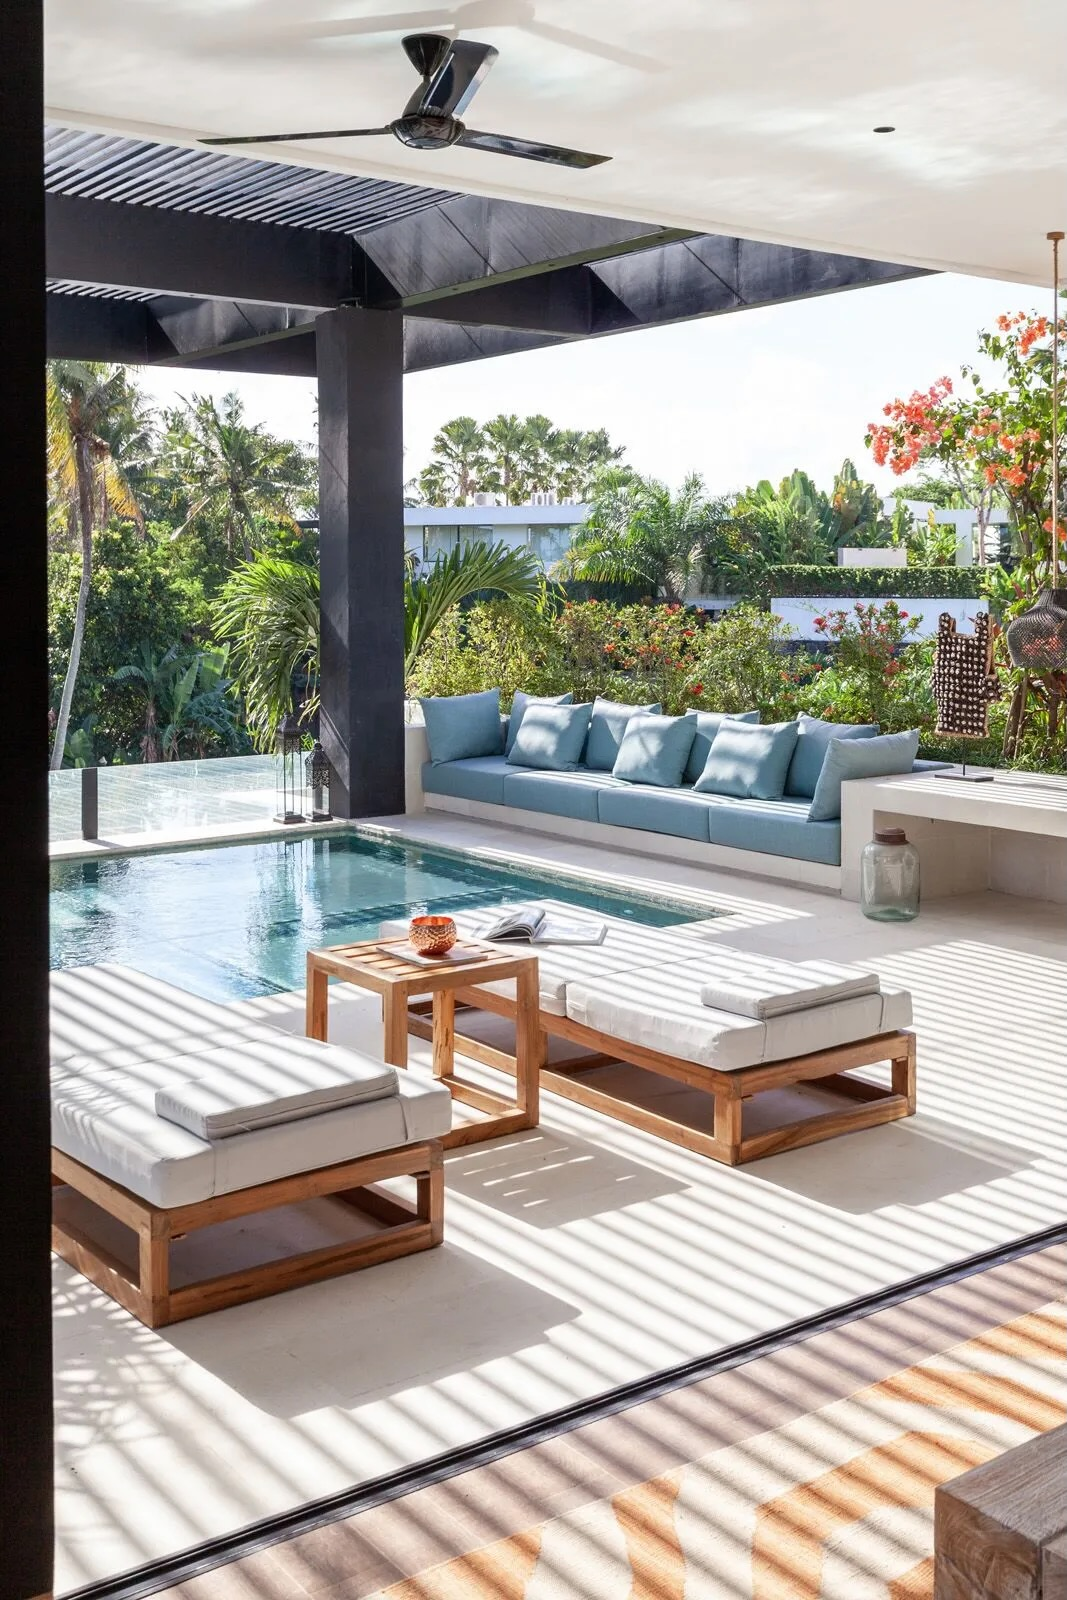
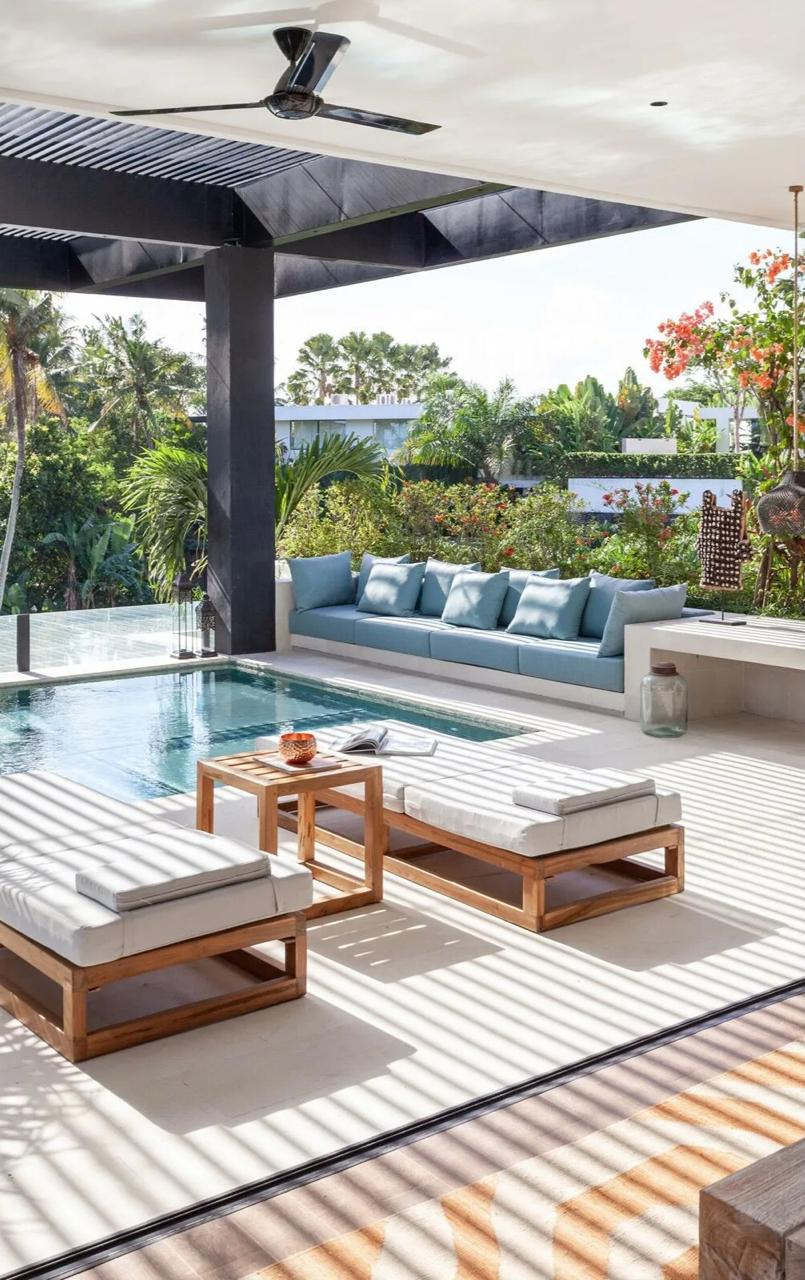
Replace pool-lounge image with Spencer's cropped version

diff --git a/public/index.html b/public/index.html
@@ -216,7 +216,7 @@ footer .copy{font-size:.7rem;color:#444}
 <!-- Highlights — image right, text left -->
 <div class="split-section reverse">
   <div class="split-img">
-    <img src="/images/pool-lounge.jpg" alt="Villa Zeno Arete poolside lounge" class="reveal reveal-scale" style="object-position:70% center">
+    <img src="/images/pool-lounge.jpg" alt="Villa Zeno Arete poolside lounge" class="reveal reveal-scale">
   </div>
   <div class="split-text alt-bg">
     <span class="section-label reveal reveal-fade">The Highlights</span>
